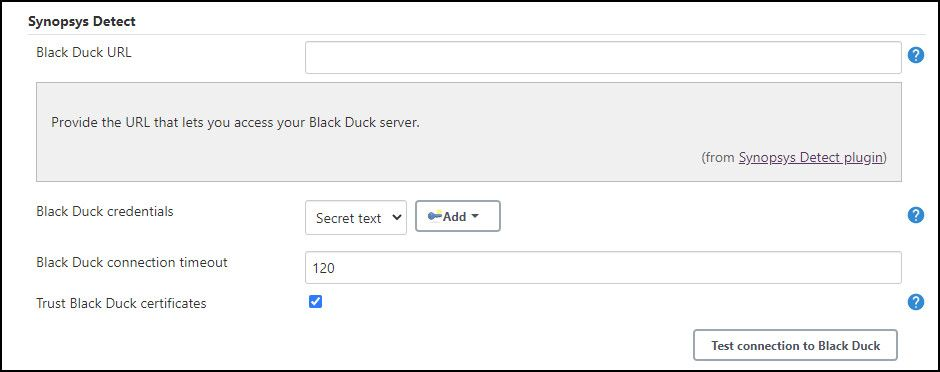
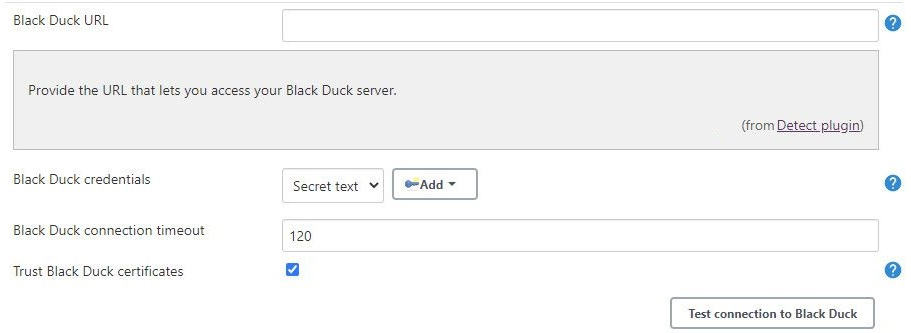
Renaming
More defs and image updates

diff --git a/documentation/src/main/markdown/integrations/jenkinsplugin/configuringtheplugin.md b/documentation/src/main/markdown/integrations/jenkinsplugin/configuringtheplugin.md
@@ -1,8 +1,8 @@
 # Configuring the Jenkins Plugin
-Use the following process to configure the Synopsys Detect for Jenkins plugin.  Note that the supported credential formats are user name and password or API token.  SAML is not supported.
+Use the following process to configure the [detect_product_long] for Jenkins plugin.  Note that the supported credential formats are user name and password or API token.  SAML is not supported.
 
 1. After installing, navigate to **Manage Jenkins** > **Configure System**.
-1. Navigate to the **[company_name] [solution_name]** section, and complete the following.
+1. Navigate to the **[detect_product_short]** section, and complete the following.
    1. **Global download strategy**: Depending on your desired deployment method, select either the option to **Install Air Gapped Detect as a Tool Installation** or **Download via scripts or use DETECT\_JAR** from the drop-down list.
    
    <figure>
@@ -17,10 +17,10 @@ Use the following process to configure the Synopsys Detect for Jenkins plugin. 
     <figcaption>Global download strategy Scripts/Jar.</figcaption>
 </figure>
 
-1. **[blackduck_product_name] URL**: URL to your [blackduck_product_name] server instance.
-1. **[blackduck_product_name] credentials**: To add credentials, click **Add** > **Jenkins**, and then select the type of credentials that you want to add and populate the relevant fields.
-   When you add credentials, you can select those credentials that you want from the drop-down menu to authenticate to the [blackduck_product_name] server. 
-   1. For user API tokens, select **Secret text** from the menu in the **Kind** field, then provide your [blackduck_product_name] access token in the **Secret** field.
+1. **[bd_product_short] URL**: URL to your [bd_product_short] server instance.
+1. **[bd_product_short] credentials**: To add credentials, click **Add** > **Jenkins**, and then select the type of credentials that you want to add and populate the relevant fields.
+   When you add credentials, you can select those credentials that you want from the drop-down menu to authenticate to the [bd_product_short] server. 
+   1. For user API tokens, select **Secret text** from the menu in the **Kind** field, then provide your [bd_product_short] access token in the **Secret** field.
    <figure>
     <img src="../jenkinsplugin/images/Configuring3.png"
          alt="Inputting the access token secret">
@@ -28,13 +28,13 @@ Use the following process to configure the Synopsys Detect for Jenkins plugin. 
 </figure>
    1. The other option for credentials is **Username with password**.
 
-1. The **Advanced...** option displays for [blackduck_product_name]. Advanced settings enable you to specify values for:
-   1. **[blackduck_product_name] connection timeout** (in seconds).  The default value is 120.
-   1. **Trust [blackduck_product_name] certificates**: Select the checkbox to allow (SSL) certificates from [blackduck_product_name].
+1. The **Advanced...** option displays for [bd_product_short]. Advanced settings enable you to specify values for:
+   1. **[bd_product_short] connection timeout** (in seconds).  The default value is 120.
+   1. **Trust [bd_product_short] certificates**: Select the checkbox to allow (SSL) certificates from [bd_product_short].
    <figure>
     <img src="../jenkinsplugin/images/Configuring4.jpg"
          alt="Configure connection timeout and SSL">
     <figcaption>Configure timeout and SSL.</figcaption>
 </figure>
-1. Click **Test Connection to [blackduck_product_name]** to verify that your settings are correct. If so, a *Connection successful!* status displays.
+1. Click **Test Connection to [bd_product_short]** to verify that your settings are correct. If so, a *Connection successful!* status displays.
 1. Click **Save**.

diff --git a/documentation/src/main/markdown/integrations/jenkinsplugin/autoescapingparameters.md b/documentation/src/main/markdown/integrations/jenkinsplugin/autoescapingparameters.md
@@ -1,6 +1,6 @@
 # Auto-escaping Parameters
 
-In [company_name] [solution_name] for Jenkins, several special parameters are automatically escaped. 
+In [detect_product_long] for Jenkins, several special parameters are automatically escaped. 
 The workflows pertaining to quotation marks and spaces are as follows.
 
 - Detect properties must be separated by spaces or carriage returns/line feeds.
@@ -11,11 +11,11 @@ The workflows pertaining to quotation marks and spaces are as follows.
 ## Considerations for name escaping conventions
 
 You can turn off auto escaping by setting the environment variable *DETECT\_PLUGIN\_ESCAPING* to false.
-Jenkins enables you to set an environment variable at different levels, such as globally or on a per-job basis. If you set the environment variable globally to one value, you can set it at the job level to another value. Synopsys recommends setting the environment variable globally to skip escaping (ensuring past jobs work as expected), and then if you want to make jobs with the auto escaping enabled, you modify the environment variable flag in that job's configuration to enable escaping the characters. The easiest way to accomplish this is to install the ["Environment Injector" Jenkins plugin](https://plugins.jenkins.io/envinject/).
+Jenkins enables you to set an environment variable at different levels, such as globally or on a per-job basis. If you set the environment variable globally to one value, you can set it at the job level to another value. It is recommended to set the environment variable globally to skip escaping (ensuring past jobs work as expected), and then if you want to make jobs with the auto escaping enabled, you modify the environment variable flag in that job's configuration to enable escaping the characters. The easiest way to accomplish this is to install the ["Environment Injector" Jenkins plugin](https://plugins.jenkins.io/envinject/).
 
-**Note:** In [company_name] [solution_name] plugin version 9, the above recommendations remain the same for agents on Windows systems.  For those agents running on 'NIX systems, *DETECT\_PLUGIN\_ESCAPING* should be set to false.  Ensure that you adhere to the quoting conventions described above. Any input with spaces in the Jenkins configuration should be enclosed in quotes.
+**Note:** In [detect_product_long] plugin version 9, the above recommendations remain the same for agents on Windows systems.  For those agents running on 'NIX systems, *DETECT\_PLUGIN\_ESCAPING* should be set to false.  Ensure that you adhere to the quoting conventions described above. Any input with spaces in the Jenkins configuration should be enclosed in quotes.
 
-[company_name] [solution_name] for Jenkins allows some special characters when *DETECT\_PLUGIN\_ESCAPING* is set to false, and spaces can be included without escape sequences provided that they are enclosed in single or double quotes as described above for different agents. Therefore, instead of `My\ Test\ Project1`, you can pass it as `'My Test Project1'`, the project will be created and uploaded to [blackduck_product_name] as `My Test Project1*.*`
+[detect_product_long] for Jenkins allows some special characters when *DETECT\_PLUGIN\_ESCAPING* is set to false, and spaces can be included without escape sequences provided that they are enclosed in single or double quotes as described above for different agents. Therefore, instead of `My\ Test\ Project1`, you can pass it as `'My Test Project1'`, the project will be created and uploaded to [bd_product_short] as `My Test Project1*.*`
 
 If *DETECT\_PLUGIN\_ESCAPING* is set to true, then you can use backtick (\`) to escape spaces which are passed within argument values. Therefore, you can pass values as "Windows` Project" in the arguments.
 

diff --git a/documentation/src/main/markdown/integrations/jenkinsplugin/dockercontainers.md b/documentation/src/main/markdown/integrations/jenkinsplugin/dockercontainers.md
@@ -1,5 +1,5 @@
 # Using Docker Containers - Best Practice
-When running [company_name] [solution_name] for Jenkins using the *DETECT\_JAR* environment variable in a pipeline that has a Docker agent, remember to mount the Detect JAR as a volume.
+When running [detect_product_short] for Jenkins using the *DETECT\_JAR* environment variable in a pipeline that has a Docker agent, remember to mount the Detect JAR as a volume.
 
 For example, if you've installed the jar on a node, the JAR won't be accessible from your docker agent unless you either put it somewhere you regularly
 include, or if you mount the path to the jar. Refer to [Docker documentation](https://docs.docker.com/storage/bind-mounts/#choose-the--v-or---mount-flag) for more information.
@@ -18,4 +18,4 @@ pipeline {
 ...
 ```
 
-Applies when running [company_name] [solution_name] for Jenkins with a local JAR (which requires setting the *DETECT\_JAR* environment variable).
+Applies when running [detect_product_short] for Jenkins with a local JAR (which requires setting the *DETECT\_JAR* environment variable).

diff --git a/documentation/src/main/markdown/integrations/jenkinsplugin/airgapfordetect.md b/documentation/src/main/markdown/integrations/jenkinsplugin/airgapfordetect.md
@@ -1,9 +1,9 @@
 # Jenkins Air Gap mode
-The [company_name] [solution_name] for Jenkins plugin enables you to configure an Air Gap option to run [company_name] [solution_name]. 
+The [detect_product_long] for Jenkins plugin enables you to configure an Air Gap option to run [detect_product_short]. 
 
-Before you can see the Detect Air Gap option on the Global Tool Configuration page, you must install the [company_name] [solution_name] plugin.
+Before you can see the [detect_product_short] Air Gap option on the Global Tool Configuration page, you must install the [detect_product_short] plugin.
 
-Use the following process to make the Air Gap option globally available when you're configuring a [company_name] [solution_name] job:
+Use the following process to make the Air Gap option globally available when you're configuring a [detect_product_short] job:
 
 1. In Jenkins, Click **Manage Jenkins** on the left navigation and then click  **Global Tool Configuration**.
 1. In the Detect Air Gap section, click **Add Detect Air Gap** and then complete the following:
